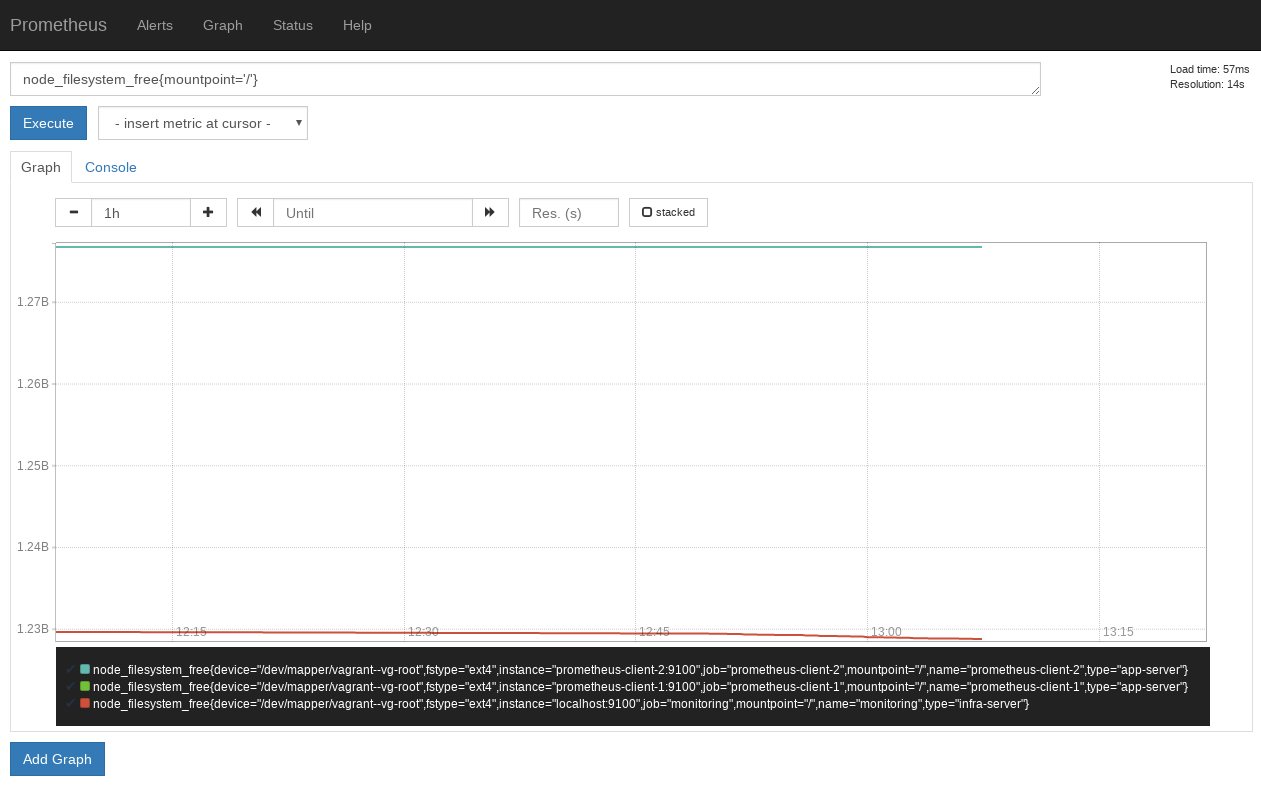
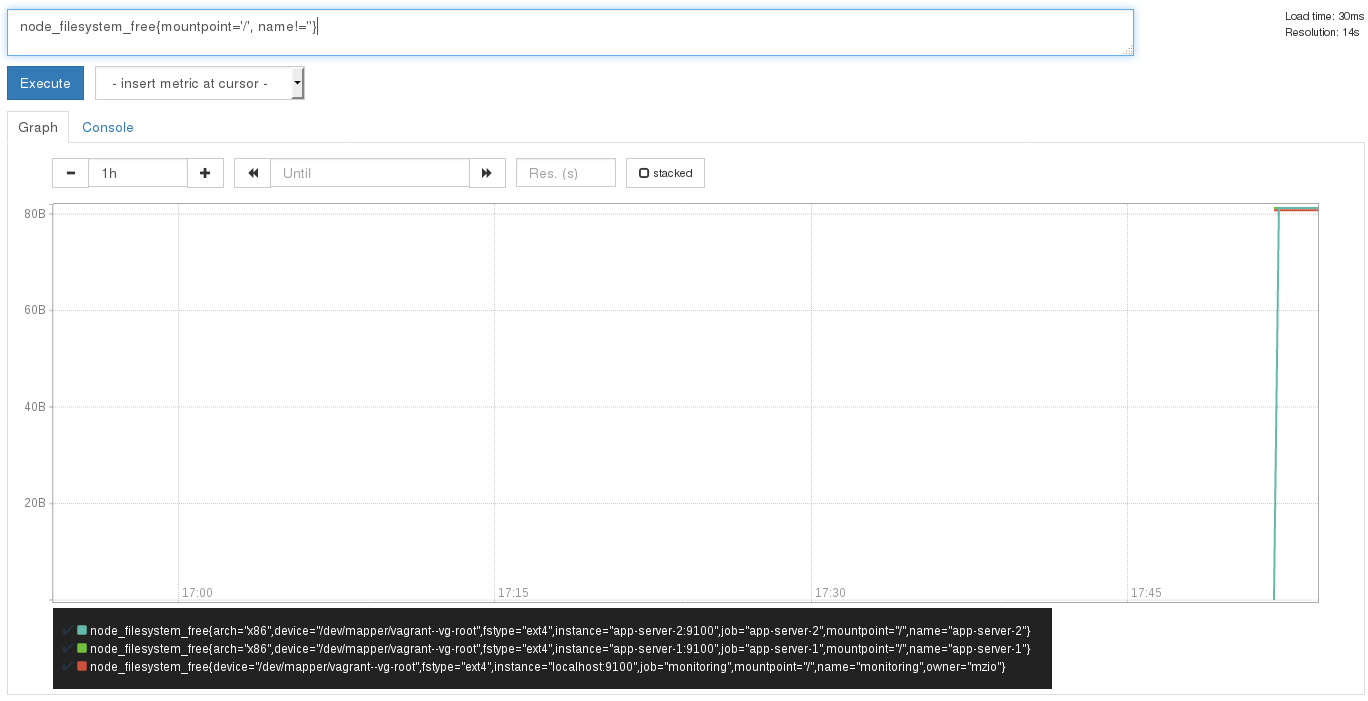
monitoring with prometheus: rename the servers
* redo the screenshots
* copy python scripts to the servers
* show impact of excessive resource consumption

diff --git a/posts/2017/10/27/monitoring-prometheus.rst b/posts/2017/10/27/monitoring-prometheus.rst
@@ -230,7 +230,7 @@ At http://192.168.100.10:9090/graph you can start using the Prometheus
 query language [promq]_ to create graphs based on the metrics the
 Prometheus server scrapes from the targets in an interval. For example,
 you can query the available disk space from the nodes by using
-``node_filesystem_free{mountpoint='/'}``:
+``node_filesystem_free{mountpoint='/', name!=''}``:
 
 * ``node_filesystem_free``: This is the metric you're interested in
 * ``{mountpoint='/'}``: This is a constraint you can specify
@@ -238,6 +238,11 @@ you can query the available disk space from the nodes by using
 .. image:: prometheus-graph.png
    :target: /_images/prometheus-graph.png
    :alt: Prometheus graph page with a query for free disk space
+
+.. note:: The (old) version of *Prometheus* I used here adds itself
+   automatically (not sure if this is a bug or a feature) additionally
+   to the setting I did (with labels), so I ignore that entry with
+   another constraint ``name!=''`` like you see in the image.
 
 You'll notice very quickly that this gets ugly. For example, the metric
 is in bytes, and you cannot transform it to a human readable unit. Let's
@@ -247,6 +252,40 @@ The Ansible playbook also installed and configured the Grafana service,
 which is accessible at http://192.168.100.10:3000/ .
 
 Sign in as username ``admin`` and password ``admin``.
+
+.. image:: grafana-dashboard.png
+   :target: /_images/grafana-dashboard.png
+   :alt: Grafana dashboard visualizing Prometheus Node Exporter metrics
+
+
+Fire up one of the applications to consume some resources:
+
+.. code-block:: bash
+   :linenos:
+
+   [markus@home] $ vagrant ssh app-server-1
+   Welcome to Ubuntu 16.04.3 LTS (GNU/Linux 4.4.0-62-generic x86_64)
+
+    * Documentation:  https://help.ubuntu.com
+    * Management:     https://landscape.canonical.com
+    * Support:        https://ubuntu.com/advantage
+   Last login: Fri Oct 20 17:51:44 2017 from 192.168.100.1
+   vagrant@app-server-1:~$ sudo su -
+   root@app-server-1:~#
+   root@app-server-1:~#
+   root@app-server-1:~# python eat_cpu.py &
+   [1] 2392
+   root@app-server-1:~# kill -9 2392  # if you're impatient :)
+
+
+You'll see the impact immediately in your dashboard.
+
+.. image:: grafana-cpu-consumption.png
+   :target: /_images/grafana-cpu-consumption.png
+   :alt: Grafana displays the CPU consumption
+
+
+
 
 
 Conclusion
